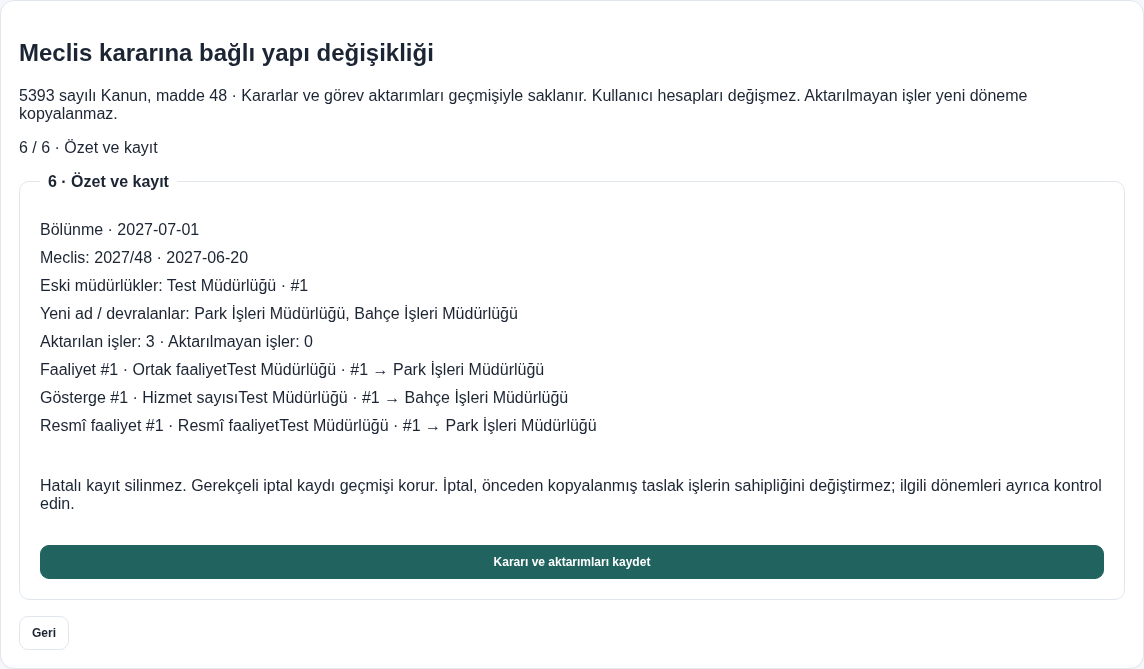
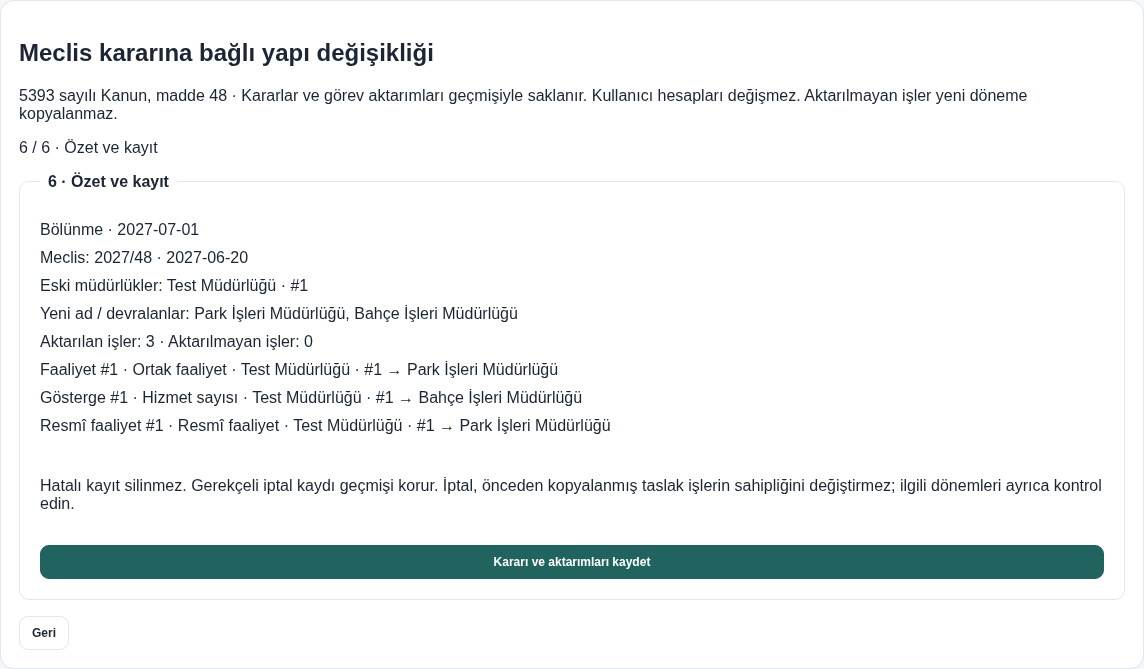
CIV-027 Clarify source labels in the transfer summary

Changed region(s): [[0.1836, 0.5381, 0.5507, 0.6577]]

diff --git a/app/templates/structure_wizard.html b/app/templates/structure_wizard.html
@@ -12,7 +12,7 @@
 <div data-receivers><p>Mevcut devralan müdürlükler</p>{% for d in departments %}{% if d.is_active %}<label><input type="checkbox" name="to_department_ids" value="{{ d.id }}" data-name="{{ d.name }}" {{ 'checked' if d.id|string in attempted.get('to_department_ids',[]) and attempted_action == action else '' }}>{{ d.name }} · #{{ d.id }}</label>{% endif %}{% endfor %}</div>
 <label data-new-departments>Oluşturulacak müdürlükler (her satıra bir ad)<textarea name="new_names" id="structure-new-names">{{ value(action,'new_names') }}</textarea></label></fieldset>
 <fieldset data-structure-step hidden><legend>5 · Faaliyet ve gösterge aktarımı</legend><p>Kaynak dönem: {{ period.year }}. Başka dönem için önce Kurum Yapısı dönem seçimini değiştirin. Her iş tek devralana gider. Boş seçim Strateji için aktarılmamış iş olarak listelenir.</p>
-<div class="table-wrap"><table><thead><tr><th>İş / kaynak müdürlük</th><th>Devralan</th></tr></thead><tbody>{% for item in work_items %}<tr data-transfer-source="{{ item.department_id }}"><td>{{ {'activity':'Faaliyet','indicator':'Gösterge','official':'Resmî faaliyet'}[item.kind] }} #{{ item.id }} · {{ item.name }}<br>{{ department_names[item.department_id] }} · #{{ item.department_id }}</td><td><select name="transfer_{{ item.key }}" data-transfer-select data-attempted="{{ value(action,'transfer_' ~ item.key) }}"><option value="">Aktarılmadı</option></select></td></tr>{% endfor %}</tbody></table></div><label>Aktarım notu<textarea name="transfer_note">{{ value(action,'transfer_note') }}</textarea></label><p data-no-transfers hidden>Bu değişiklik türünde görev aktarımı yapılmaz.</p></fieldset>
+<div class="table-wrap"><table><thead><tr><th>İş / kaynak müdürlük</th><th>Devralan</th></tr></thead><tbody>{% for item in work_items %}<tr data-transfer-source="{{ item.department_id }}"><td>{{ {'activity':'Faaliyet','indicator':'Gösterge','official':'Resmî faaliyet'}[item.kind] }} #{{ item.id }} · {{ item.name }}<br> · {{ department_names[item.department_id] }} · #{{ item.department_id }}</td><td><select name="transfer_{{ item.key }}" data-transfer-select data-attempted="{{ value(action,'transfer_' ~ item.key) }}"><option value="">Aktarılmadı</option></select></td></tr>{% endfor %}</tbody></table></div><label>Aktarım notu<textarea name="transfer_note">{{ value(action,'transfer_note') }}</textarea></label><p data-no-transfers hidden>Bu değişiklik türünde görev aktarımı yapılmaz.</p></fieldset>
 <fieldset data-structure-step hidden><legend>6 · Özet ve kayıt</legend><div id="structure-summary"></div><p>Hatalı kayıt silinmez. Gerekçeli iptal kaydı geçmişi korur. İptal, önceden kopyalanmış taslak işlerin sahipliğini değiştirmez; ilgili dönemleri ayrıca kontrol edin.</p><button class="button primary" type="submit">Kararı ve aktarımları kaydet</button></fieldset>
 <div class="structure-row"><button type="button" class="button" id="structure-previous" hidden>Geri</button><button type="button" class="button primary" id="structure-next">İleri</button></div>
 </form></section>
